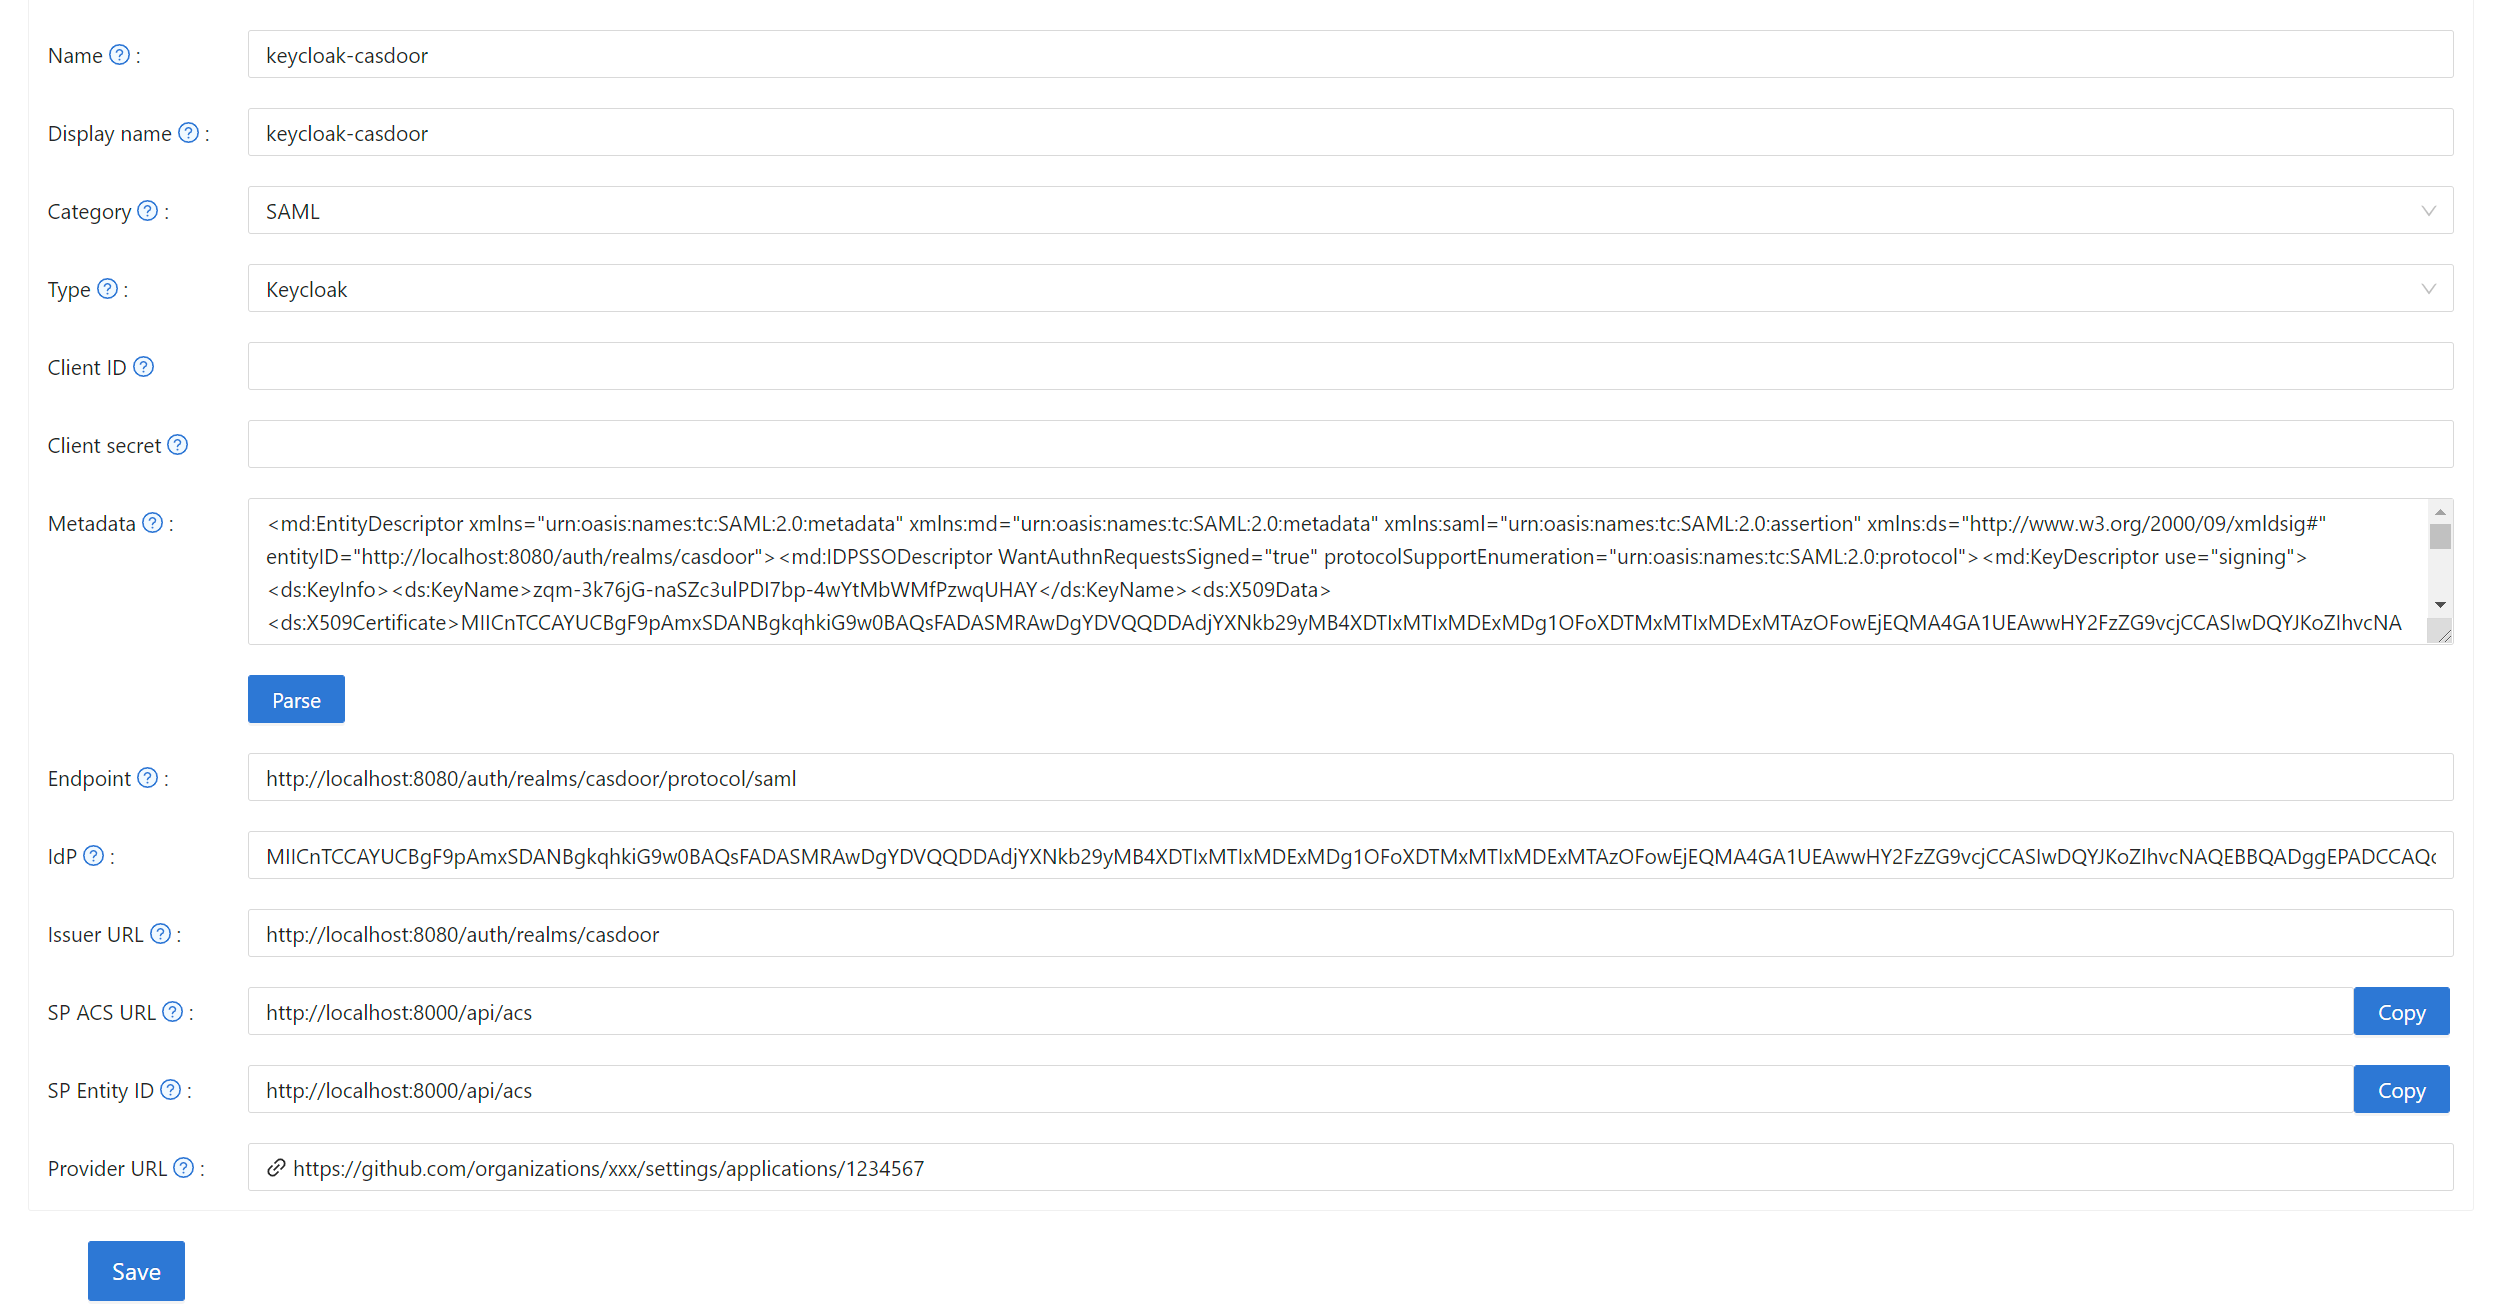
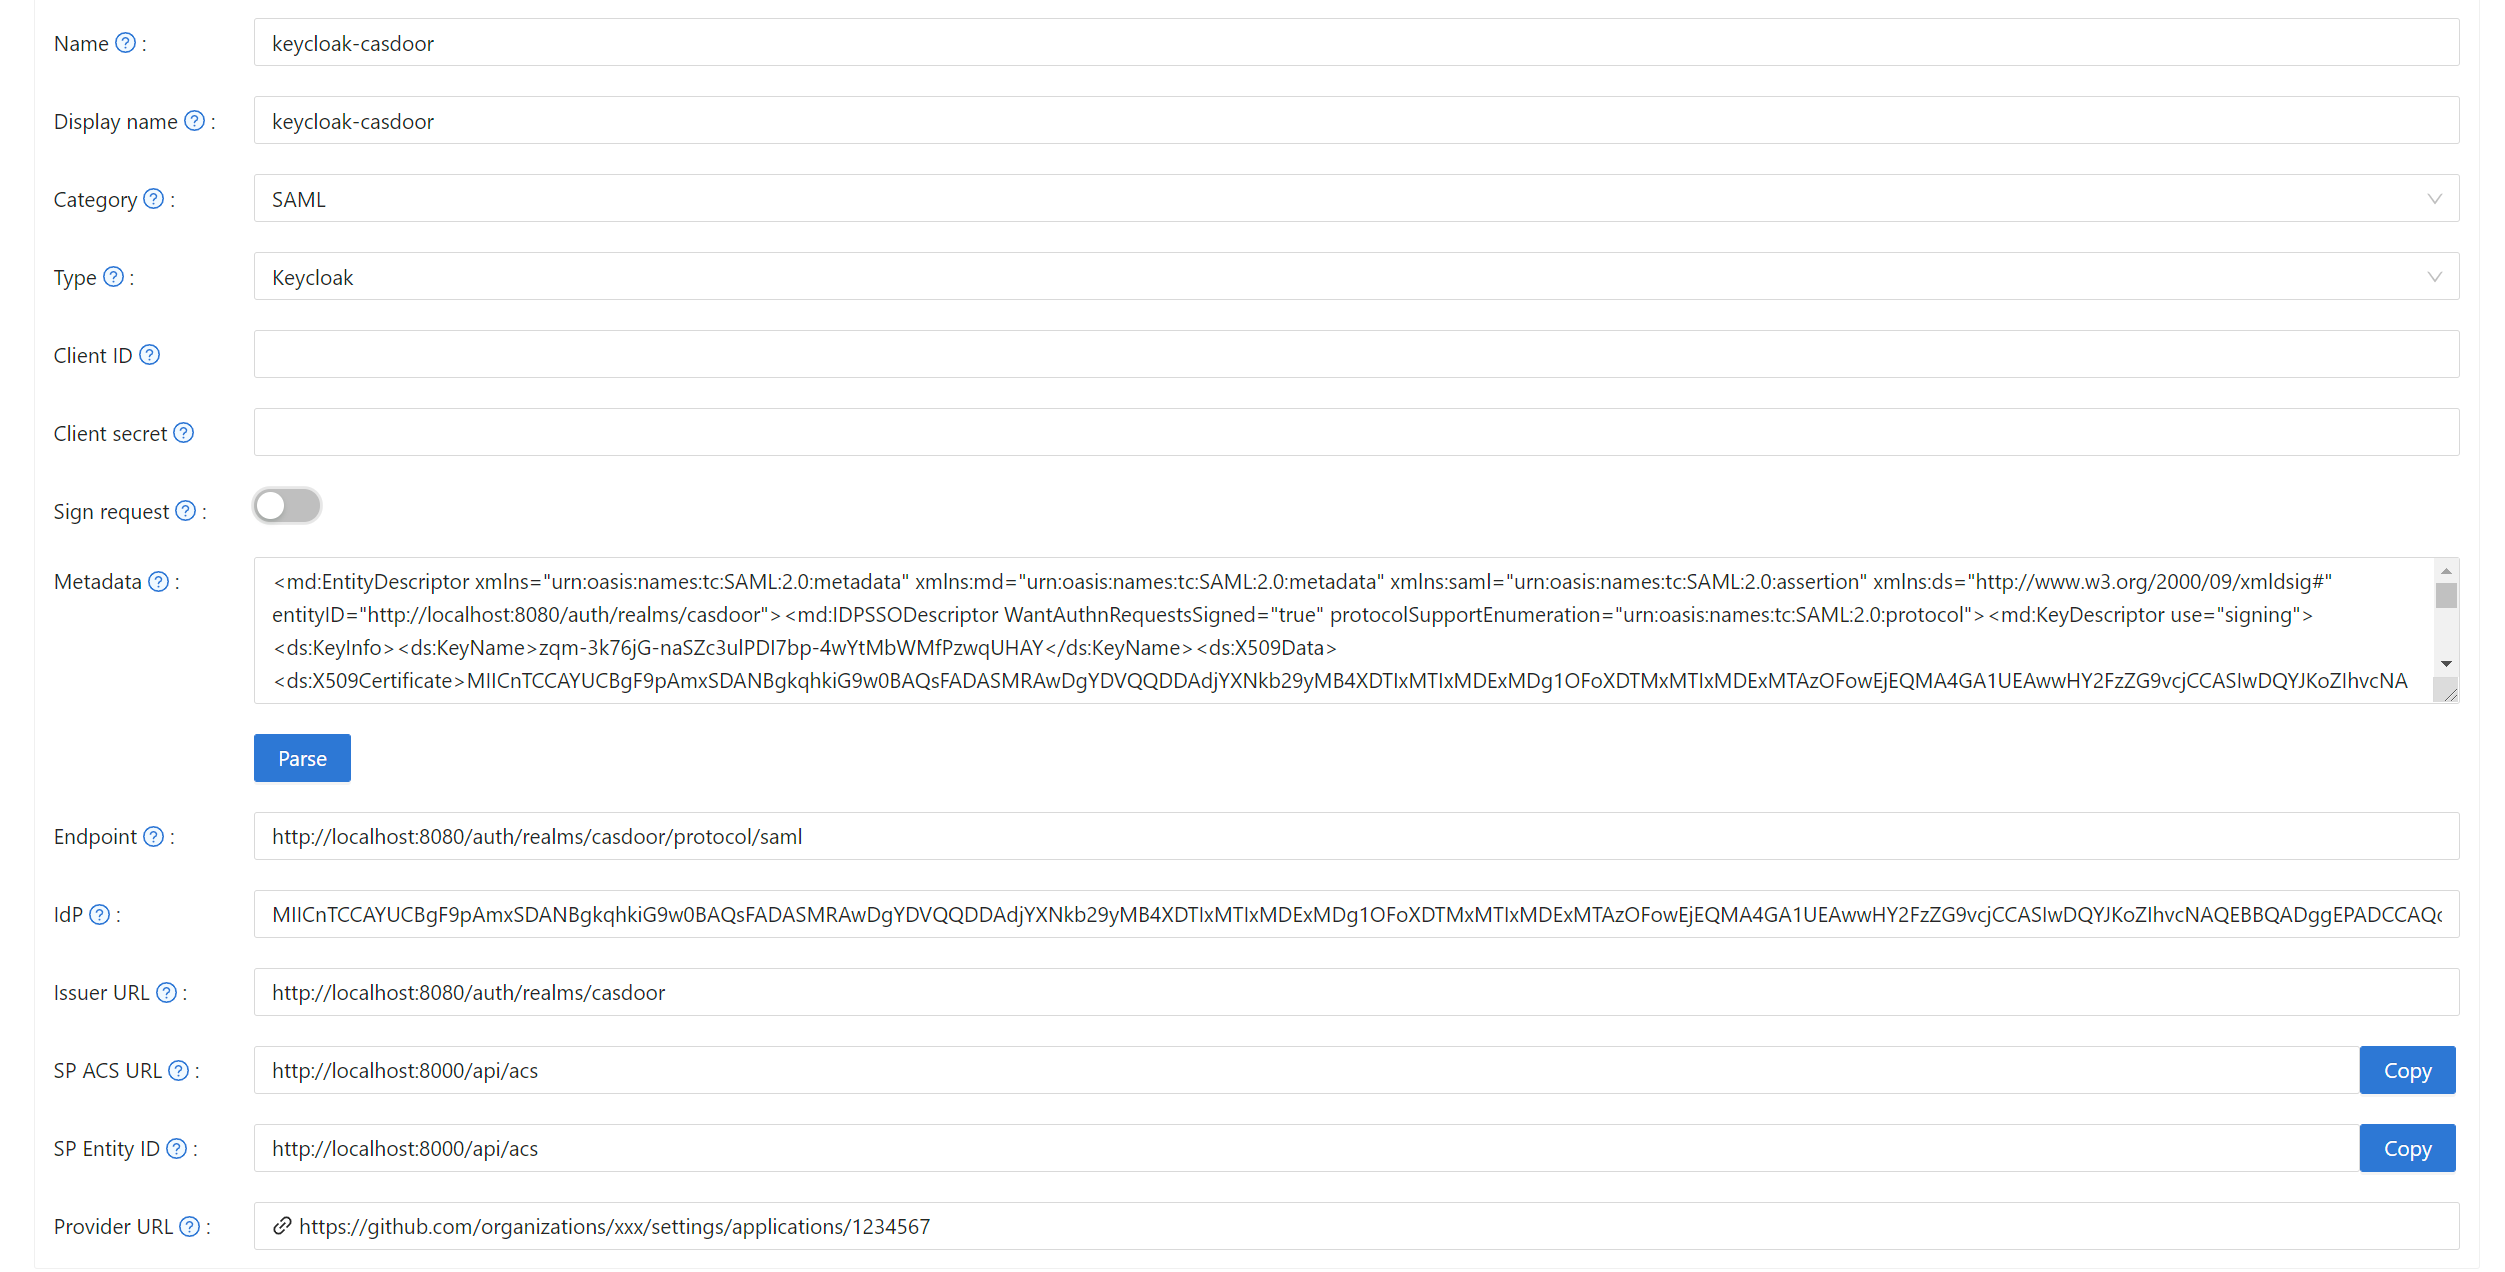
feat: add authn request description in Keycloak (#104)

diff --git a/docs/provider/saml/keycloak.md b/docs/provider/saml/keycloak.md
@@ -59,6 +59,10 @@ Save the configuration.
 
 ![Configure keycloak client](/img/providers/SAML/keycloak_client_configure.png)
 
+:::tip
+If you want to sign authn request, you need to enable the **Client Signature Required** option and upload the certificate generated by yourself. The private key and certificate using in Casdoor, `token_jwt_key.key` and `token_jwt_key.pem` are located in the **object** directory. In Keycloak, you need to click the **Keys** tab, click **Import** button, select **Archive Format** as **Certificate PEM** and upload the certificate.
+:::
+
 Click **Installation** tab. 
 
 For the Keycloak <= 5.0.0, select Format Option - **SAML Metadata IDPSSODescriptor** and copy the metadata. 
@@ -74,6 +78,10 @@ For Keycloak 6.0.0+, select Format Option - **Mod Auth Mellon files** and click 
 Create a new provider in Casdoor.
 
 Select category as **SAML**, type as **Keycloak**. Copy the content of metadata and paste it to the **Metadata** input. The values of **Endpoint**, **IdP** and **Issuer URL** will be generated automatically after clicking the **Parse** button. Finally click the button **Save**.
+
+:::tip
+If you enable the **Client Signature Required** option in Keycloak and upload the certificate, please enable the **Sign request** option in Casdoor.
+:::
 
 ![Casdoor provider](/img/providers/SAML/keycloak_casdoor_provider.png)
 
